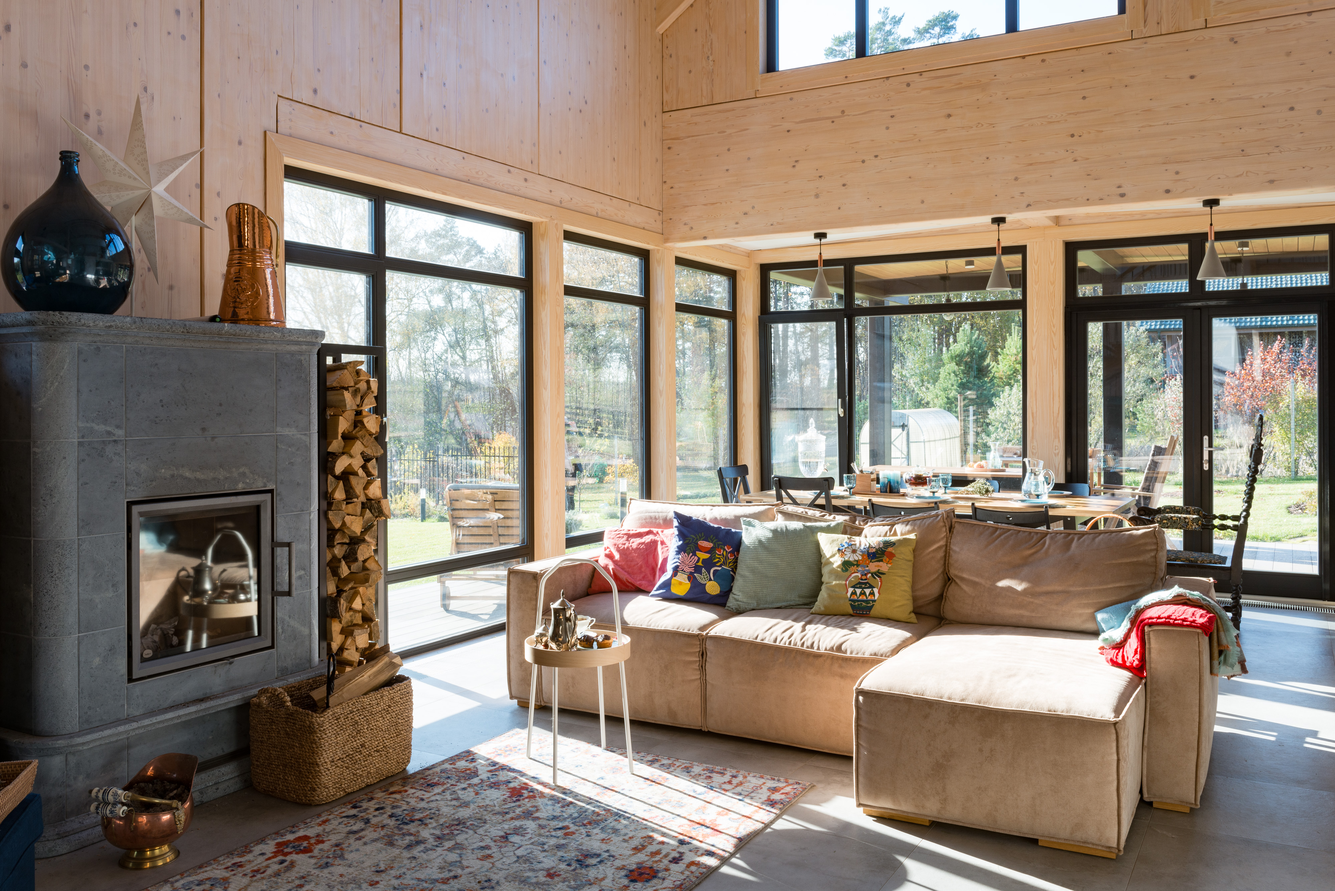
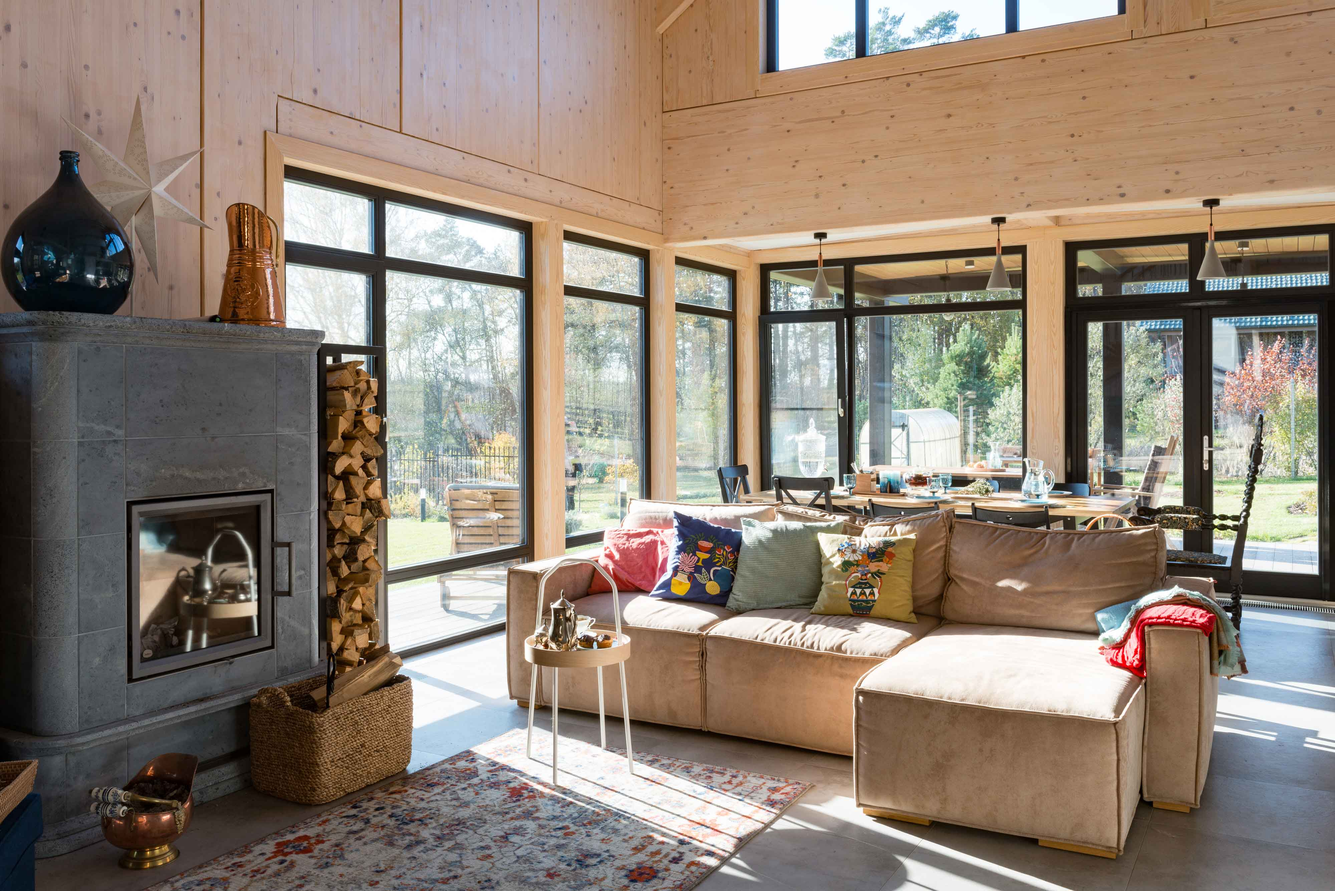
оптимизированный изображения

diff --git a/src/app/components/SectionTitle/styles/index.module.css b/src/app/components/SectionTitle/styles/index.module.css
@@ -1,6 +1,6 @@
 .sectionTitle {
   width: 100%;
-  height: 500px;
+  height: 520px;
   background-color: #525a3f;
   flex-direction: column;
   justify-content: space-between;
@@ -9,8 +9,14 @@
   display: flex;
   border-radius: 16px;
   padding: 20px;
-  background-image: url('../../../../../public/images/welcomeHouse.png');
+  background-image: url('../../../../../public/images/welcomeHouse.jpg');
   background-repeat: no-repeat;
   background-position: center;
   background-size: cover;
+}
+
+@media screen {
+  .sectionTitle {
+    height: 820px;
+  }
 }

diff --git a/src/app/components/SectionQuote/SectionQuote.tsx b/src/app/components/SectionQuote/SectionQuote.tsx
@@ -1,4 +1,4 @@
-import owner from "../../../../public/images/owner.png";
+import owner from "../../../../public/images/owner.jpg";
 import signature from "../../../../public/images/signatureOwnerFigma.png"
 import styles from "./styles/index.module.css";
 import Image from "next/image";
